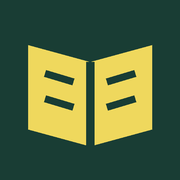
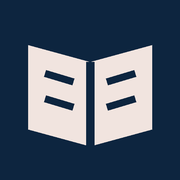
Update book club wording, church colours and regional links

diff --git a/index.html b/index.html
@@ -8,38 +8,40 @@
 <meta property="og:site_name" content="The Book Club London">
 <meta property="og:locale" content="en_GB">
 <meta property="og:url" content="https://thebookclub.london/">
-<meta property="og:title" content="The Book Club London — Bring your curiosity.">
+<meta property="og:title" content="The Book Club London — Make up your own mind.">
 <meta property="og:description" content="An old book. Big questions. Good company. Explore the Bible, life and meaning at a relaxed book club in Waterloo. Everyone welcome.">
-<meta property="og:image" content="https://thebookclub.london/assets/book-club-social.jpg">
-<meta property="og:image:secure_url" content="https://thebookclub.london/assets/book-club-social.jpg">
+<meta property="og:image" content="https://thebookclub.london/assets/book-club-social-v2.jpg">
+<meta property="og:image:secure_url" content="https://thebookclub.london/assets/book-club-social-v2.jpg">
 <meta property="og:image:type" content="image/jpeg">
 <meta property="og:image:width" content="1200">
 <meta property="og:image:height" content="630">
-<meta property="og:image:alt" content="The Book Club London: An old book. Big questions. Good company. Illustrated open book on a yellow circle.">
+<meta property="og:image:alt" content="The Book Club London: An old book. Big questions. Good company. Illustrated open book in navy and muted red.">
 <meta name="twitter:card" content="summary_large_image">
-<meta name="twitter:title" content="The Book Club London — Bring your curiosity.">
+<meta name="twitter:title" content="The Book Club London — Make up your own mind.">
 <meta name="twitter:description" content="Explore the Bible, life and meaning at a relaxed book club in Waterloo. Questions welcome.">
-<meta name="twitter:image" content="https://thebookclub.london/assets/book-club-social.jpg">
+<meta name="twitter:image" content="https://thebookclub.london/assets/book-club-social-v2.jpg">
 <meta name="twitter:image:alt" content="The Book Club London: An old book. Big questions. Good company.">
 <link rel="icon" href="/favicon.ico" sizes="any">
 <link rel="icon" href="/assets/favicon.svg" type="image/svg+xml">
 <link rel="apple-touch-icon" href="/assets/apple-touch-icon.png" sizes="180x180">
-<meta name="theme-color" content="#193d34">
+<meta name="theme-color" content="#0d253f">
 <link rel="canonical" href="https://thebookclub.london/">
-<title>The Book Club London — Bring your curiosity.</title>
+<title>The Book Club London — Make up your own mind.</title>
 <style>
-:root{--ink:#193d34;--paper:#f8f5ec;--yellow:#efd85d;--line:#ccd0c3;--muted:#53665d}*{box-sizing:border-box}html{scroll-behavior:smooth;scroll-padding-top:24px}body{margin:0;background:var(--paper);color:var(--ink);font-family:Arial,Helvetica,sans-serif;font-size:18px;line-height:1.6}a{color:inherit;text-underline-offset:5px}a:focus-visible,button:focus-visible,summary:focus-visible,video:focus-visible{outline:3px solid #b96337;outline-offset:6px}button{font:inherit}h1,h2,h3,p{margin-top:0}h1,h2{font-family:Georgia,'Times New Roman',serif;font-weight:400;letter-spacing:-.055em;line-height:1.02}h1{font-size:clamp(64px,7.6vw,108px);margin-bottom:30px}h2{font-size:clamp(42px,5vw,68px);margin-bottom:28px}h3{font-size:23px;line-height:1.25;letter-spacing:-.03em}.wrap{width:min(1180px,88%);margin:auto}.skip{position:absolute;top:-90px;left:20px;padding:10px;background:var(--yellow);z-index:5}.skip:focus{top:10px}.site-header{display:flex;align-items:center;justify-content:space-between;padding:28px 0;border-bottom:1px solid var(--line);gap:20px}.brand{font-size:23px;font-weight:800;letter-spacing:-.06em;text-decoration:none;line-height:1}.brand small{display:block;font-size:11px;letter-spacing:.25em;margin-top:8px}.nav{display:flex;gap:28px;align-items:center;font-size:15px}.nav a{text-decoration:none}.nav a:hover{text-decoration:underline}.nav .nav-cta{border:1px solid var(--ink);padding:9px 18px;border-radius:30px}.hero{display:grid;grid-template-columns:1.3fr 1fr;gap:70px;align-items:center;padding:78px 0 70px}.eyebrow{text-transform:uppercase;letter-spacing:.16em;font-size:12px;font-weight:700;margin-bottom:26px}.hero h1 em{color:#59745e}.intro{font-size:21px;max-width:540px;line-height:1.6}.actions{display:flex;gap:22px;align-items:center;flex-wrap:wrap;margin:30px 0 22px}.button{display:inline-flex;align-items:center;justify-content:center;gap:28px;background:var(--ink);color:white;border:1px solid var(--ink);padding:15px 25px;border-radius:40px;text-decoration:none;font-size:16px;font-weight:700;transition:background .2s}.button:hover{background:#2e5749}.button.light{background:var(--yellow);color:var(--ink);border-color:var(--yellow)}.quiet{font-size:14px;color:var(--muted)}.video-card{position:relative;max-width:355px;width:100%;justify-self:center}.video-shell{border:1px solid var(--ink);border-radius:180px 180px 20px 20px;background:#d7dfd3;padding:20px 20px 16px;box-shadow:14px 14px 0 #e7e3d5}.video-shell video{display:block;width:100%;aspect-ratio:9/16;background:#17382f;border-radius:160px 160px 8px 8px;object-fit:contain}.video-label{text-align:center;font-size:12px;font-weight:700;letter-spacing:.12em;margin:17px 0 0;text-transform:uppercase}.video-note{position:absolute;right:-26px;top:25px;width:110px;height:110px;border-radius:50%;background:var(--yellow);display:grid;place-content:center;text-align:center;font-size:14px;line-height:1.3;transform:rotate(9deg);pointer-events:none}.video-start{position:absolute;top:47%;left:50%;transform:translate(-50%,-50%);border:0;border-radius:40px;background:var(--yellow);color:var(--ink);padding:14px 21px;cursor:pointer;white-space:nowrap;font-size:15px;font-weight:bold}.video-card.playing .video-start{display:none}.principles{background:var(--yellow);border-top:1px solid var(--ink);border-bottom:1px solid var(--ink);padding:24px 0}.principles .wrap{display:flex;justify-content:space-between;gap:16px;font:26px Georgia,serif}.section{padding:90px 0}.two-col{display:grid;grid-template-columns:1fr 1fr;gap:80px}.section .eyebrow{color:var(--muted)}.reading{max-width:560px}.steps{border-top:1px solid var(--line);margin-top:25px}.step{display:grid;grid-template-columns:40px 1fr;gap:20px;border-bottom:1px solid var(--line);padding:22px 0}.step span{font-family:Georgia,serif;font-size:24px}.step h3{margin-bottom:6px}.step p{margin:0;font-size:16px;color:var(--muted)}.meet{background:var(--ink);color:var(--paper)}.meet .eyebrow{color:#d9dcca}.venue{border:1px solid #71897a;padding:34px;border-radius:4px}.venue h3{font:34px Georgia,serif}.venue p{font-size:17px}.venue .quiet{color:#d9dcca}.details{display:grid;grid-template-columns:.7fr 1.3fr;gap:80px}details{border-bottom:1px solid var(--line);padding:20px 0}details:first-child{border-top:1px solid var(--line)}summary{cursor:pointer;font-size:19px;font-weight:700;padding-right:15px}details p{margin:18px 0 0;font-size:17px;color:var(--muted)}.closing{text-align:center;padding:60px 0 80px}.closing h2{max-width:750px;margin:0 auto 30px}.site-footer{border-top:1px solid var(--line);padding:30px 0;display:flex;justify-content:space-between;align-items:center;gap:20px;font-size:14px}.site-footer p{margin:0}.footer-links{display:flex;gap:24px}.error{font-size:14px;text-align:center;margin:20px 0 0}.error[hidden]{display:none}@media(max-width:760px){.wrap{width:88%}.site-header{padding:23px 0}.brand{font-size:20px}.nav{gap:12px}.nav .optional{display:none}.nav .nav-cta{font-size:13px;padding:7px 12px}.hero{grid-template-columns:1fr;gap:40px;padding:48px 0 60px}h1{font-size:64px}.intro{font-size:19px}.video-card{max-width:300px}.video-note{right:-14px;width:92px;height:92px}.principles .wrap{flex-wrap:wrap;justify-content:center;gap:12px 30px;font-size:22px}.section{padding:60px 0}.two-col,.details{grid-template-columns:1fr;gap:30px}.venue{padding:25px}.site-footer{align-items:flex-start;flex-direction:column}.closing{padding:20px 0 60px}}@media(prefers-reduced-motion:reduce){html{scroll-behavior:auto}*{transition:none!important}}
+:root{--ink:#0d253f;--paper:#f8f5ec;--tint:#f1e4df;--line:#d8d4ce;--muted:#526071}*{box-sizing:border-box}html{scroll-behavior:smooth;scroll-padding-top:24px}body{margin:0;background:var(--paper);color:var(--ink);font-family:Arial,Helvetica,sans-serif;font-size:18px;line-height:1.6}a{color:inherit;text-underline-offset:5px}a:focus-visible,button:focus-visible,summary:focus-visible,video:focus-visible{outline:3px solid #ab4545;outline-offset:6px}button{font:inherit}h1,h2,h3,p{margin-top:0}h1,h2{font-family:Georgia,'Times New Roman',serif;font-weight:400;letter-spacing:-.055em;line-height:1.02}h1{font-size:clamp(64px,7.6vw,108px);margin-bottom:30px}h2{font-size:clamp(42px,5vw,68px);margin-bottom:28px}h3{font-size:23px;line-height:1.25;letter-spacing:-.03em}.wrap{width:min(1180px,88%);margin:auto}.skip{position:absolute;top:-90px;left:20px;padding:10px;background:var(--tint);z-index:5}.skip:focus{top:10px}.site-header{display:flex;align-items:center;justify-content:space-between;padding:28px 0;border-bottom:1px solid var(--line);gap:20px}.brand{font-size:23px;font-weight:800;letter-spacing:-.06em;text-decoration:none;line-height:1}.brand small{display:block;font-size:11px;letter-spacing:.25em;margin-top:8px}.nav{display:flex;gap:28px;align-items:center;font-size:15px}.nav a{text-decoration:none}.nav a:hover{text-decoration:underline}.nav .nav-cta{border:1px solid var(--ink);padding:9px 18px;border-radius:30px}.hero{display:grid;grid-template-columns:1.3fr 1fr;gap:70px;align-items:center;padding:78px 0 70px}.eyebrow{text-transform:uppercase;letter-spacing:.16em;font-size:12px;font-weight:700;margin-bottom:26px}.hero h1 em{color:#ab4545}.intro{font-size:21px;max-width:540px;line-height:1.6}.actions{display:flex;gap:22px;align-items:center;flex-wrap:wrap;margin:30px 0 22px}.button{display:inline-flex;align-items:center;justify-content:center;gap:28px;background:#ab4545;color:white;border:1px solid #ab4545;padding:15px 25px;border-radius:40px;text-decoration:none;font-size:16px;font-weight:700;transition:background .2s}.button:hover{background:#8c3636}.button.light:hover{background:#fff}.button.light{background:var(--tint);color:var(--ink);border-color:var(--tint)}.quiet{font-size:14px;color:var(--muted)}.video-card{position:relative;max-width:355px;width:100%;justify-self:center}.video-shell{border:1px solid var(--ink);border-radius:180px 180px 20px 20px;background:#eee5de;padding:20px 20px 16px;box-shadow:14px 14px 0 #e7e3d5}.video-shell video{display:block;width:100%;aspect-ratio:9/16;background:#0d253f;border-radius:160px 160px 8px 8px;object-fit:contain}.video-label{text-align:center;font-size:12px;font-weight:700;letter-spacing:.12em;margin:17px 0 0;text-transform:uppercase}.video-note{position:absolute;right:-26px;top:25px;width:110px;height:110px;border-radius:50%;background:var(--tint);display:grid;place-content:center;text-align:center;font-size:14px;line-height:1.3;transform:rotate(9deg);pointer-events:none}.video-start{position:absolute;top:47%;left:50%;transform:translate(-50%,-50%);border:0;border-radius:40px;background:var(--tint);color:var(--ink);padding:14px 21px;cursor:pointer;white-space:nowrap;font-size:15px;font-weight:bold}.video-card.playing .video-start{display:none}.principles{background:var(--tint);border-top:1px solid var(--ink);border-bottom:1px solid var(--ink);padding:24px 0}.principles .wrap{display:flex;justify-content:space-between;gap:16px;font:26px Georgia,serif}.section{padding:90px 0}.two-col{display:grid;grid-template-columns:1fr 1fr;gap:80px}.section .eyebrow{color:var(--muted)}.reading{max-width:560px}.steps{border-top:1px solid var(--line);margin-top:25px}.step{display:grid;grid-template-columns:40px 1fr;gap:20px;border-bottom:1px solid var(--line);padding:22px 0}.step span{font-family:Georgia,serif;font-size:24px}.step h3{margin-bottom:6px}.step p{margin:0;font-size:16px;color:var(--muted)}.meet{background:var(--ink);color:var(--paper)}.meet .eyebrow{color:#e5e6ea}.venue{border:1px solid #708096;padding:34px;border-radius:4px}.venue h3{font:34px Georgia,serif}.venue p{font-size:17px}.venue .quiet{color:#e5e6ea}.details{display:grid;grid-template-columns:.7fr 1.3fr;gap:80px}details{border-bottom:1px solid var(--line);padding:20px 0}details:first-child{border-top:1px solid var(--line)}summary{cursor:pointer;font-size:19px;font-weight:700;padding-right:15px}details p{margin:18px 0 0;font-size:17px;color:var(--muted)}.closing{text-align:center;padding:60px 0 80px}.closing h2{max-width:750px;margin:0 auto 30px}.site-footer{border-top:1px solid var(--line);padding:30px 0;display:flex;justify-content:space-between;align-items:center;gap:20px;font-size:14px}.site-footer p{margin:0}.footer-links{display:flex;gap:24px}.error{font-size:14px;text-align:center;margin:20px 0 0}.error[hidden]{display:none}@media(max-width:760px){.wrap{width:88%}.site-header{padding:23px 0}.brand{font-size:20px}.nav{gap:12px}.nav .optional{display:none}.nav .nav-cta{font-size:13px;padding:7px 12px}.hero{grid-template-columns:1fr;gap:40px;padding:48px 0 60px}h1{font-size:clamp(46px,12vw,64px)}.intro{font-size:19px}.video-card{max-width:300px}.video-note{right:-14px;width:92px;height:92px}.principles .wrap{flex-wrap:wrap;justify-content:center;gap:12px 30px;font-size:22px}.section{padding:60px 0}.two-col,.details{grid-template-columns:1fr;gap:30px}.venue{padding:25px}.site-footer{align-items:flex-start;flex-direction:column}.closing{padding:20px 0 60px}}@media(prefers-reduced-motion:reduce){html{scroll-behavior:auto}*{transition:none!important}}
+.tagline{font-size:22px;font-weight:700;color:#ab4545;margin-bottom:16px}.other-locations{border-top:1px solid var(--line);border-bottom:1px solid var(--line);padding:36px 0;margin-bottom:60px;display:grid;grid-template-columns:1.4fr 1fr;gap:40px;align-items:center}.other-locations .eyebrow{color:#ab4545;margin-bottom:14px}.other-locations h2{font-size:32px;letter-spacing:-.035em;margin-bottom:14px}.other-locations p:last-child{font-size:16px;color:var(--muted);margin:0}.other-locations nav{display:flex;gap:14px;flex-wrap:wrap}.other-locations nav a{display:flex;gap:25px;justify-content:space-between;padding:12px 18px;border:1px solid var(--line);border-radius:6px;text-decoration:none;font-size:16px}.other-locations nav a:hover{background:var(--tint)}@media(max-width:760px){.other-locations{grid-template-columns:1fr;gap:22px}.tagline{font-size:20px}}
 </style>
 </head>
 <body>
 <a class="skip" href="#main">Skip to content</a>
 <div class="wrap"><header class="site-header"><a class="brand" href="#" aria-label="The Book Club London home">the book club.<small>LONDON</small></a><nav class="nav" aria-label="Main navigation"><a class="optional" href="#about">The idea</a><a class="optional" href="#questions">Questions</a><a class="nav-cta" href="https://www.meetup.com/the-book-club-in-london/">Come along ↗</a></nav></header></div>
 <main id="main">
-<section class="hero wrap" aria-labelledby="welcome"><div><p class="eyebrow">An open conversation · Waterloo, London</p><h1 id="welcome">An old book.<br>Big questions.<br><em>Good company.</em></h1><p class="intro">A book club for exploring the Bible, life and meaning. Pull up a chair, share a thought, and hear a different point of view.</p><div class="actions"><a class="button" href="https://www.meetup.com/the-book-club-in-london/">Find our next evening <span aria-hidden="true">↗</span></a><a href="#about">What’s it like?</a></div><p class="quiet">Curious? Sceptical? Still figuring it out? You’re welcome.</p></div><div class="video-card" id="video-card"><div class="video-shell"><video id="club-video" controls playsinline preload="none" poster="assets/book-club-poster.jpg" aria-label="A short introduction to The Book Club London"><source src="assets/book-club-introduction.mp4" type="video/mp4">Your browser cannot play this video. <a href="assets/book-club-introduction.mp4">Download the introduction</a>.</video><p class="video-label">Meet the book club · 48 seconds</p></div><div class="video-note" aria-hidden="true">A little hello<br>before you<br>come along.</div><button class="video-start" id="video-start" type="button" aria-controls="club-video">▶ Watch our introduction</button><p class="error" id="video-error" hidden>Having trouble playing? <a href="assets/book-club-introduction.mp4">Open the video directly</a>.</p></div></section>
+<section class="hero wrap" aria-labelledby="welcome"><div><p class="eyebrow">An open conversation · Waterloo, London</p><h1 id="welcome">An old book.<br>Big questions.<br><em>Good company.</em></h1><p class="tagline">Make up your own mind.</p><p class="intro">A book club for exploring the Bible, life and meaning. Come along, say what you think, and hear a different point of view.</p><div class="actions"><a class="button" href="https://www.meetup.com/the-book-club-in-london/">Find our next evening <span aria-hidden="true">↗</span></a><a href="#about">What’s it like?</a></div><p class="quiet">Curious? Sceptical? Still figuring it out? You’re welcome.</p></div><div class="video-card" id="video-card"><div class="video-shell"><video id="club-video" controls playsinline preload="none" poster="assets/book-club-poster.jpg" aria-label="A short introduction to The Book Club London"><source src="assets/book-club-introduction.mp4" type="video/mp4">Your browser cannot play this video. <a href="assets/book-club-introduction.mp4">Download the introduction</a>.</video><p class="video-label">Meet the book club · 48 seconds</p></div><div class="video-note" aria-hidden="true">A little hello<br>before you<br>come along.</div><button class="video-start" id="video-start" type="button" aria-controls="club-video">▶ Watch our introduction</button><p class="error" id="video-error" hidden>Having trouble playing? <a href="assets/book-club-introduction.mp4">Open the video directly</a>.</p></div></section>
 <div class="principles"><div class="wrap"><span>Be curious.</span><span>Be honest.</span><span>Be kind.</span></div></div>
-<section class="section wrap two-col" id="about"><div><p class="eyebrow">The idea</p><h2>Room for a<br>different reading.</h2><p class="reading">The Bible has left its mark on art, culture and the way people think. But what do you make of it?</p><p class="reading">We explore its books together, including some that aren’t in most editions of the Bible. You can question what you read, disagree, or simply listen. Your conclusions are your own.</p></div><div><p class="eyebrow">An evening with us</p><div class="steps"><div class="step"><span>01</span><div><h3>Settle in.</h3><p>We meet in a pub. Get yourself a drink and find the group upstairs.</p></div></div><div class="step"><span>02</span><div><h3>Open a book.</h3><p>The group helps choose what we read. There’s no homework or prior knowledge needed.</p></div></div><div class="step"><span>03</span><div><h3>See where it takes us.</h3><p>Small-group discussion, different perspectives and space for questions. No lectures or pressure to agree.</p></div></div></div></div></section>
-<section class="meet section" id="meet"><div class="wrap two-col"><div><p class="eyebrow">Join the conversation</p><h2>Your next chapter<br>starts upstairs.</h2><p>Come on your own or bring a friend. Check our Meetup group for the next date, time and attendance details.</p><a class="button light" href="https://www.meetup.com/the-book-club-in-london/">See dates & join us <span aria-hidden="true">↗</span></a></div><div class="venue"><p class="eyebrow">Where we meet</p><h3>The Duke of Sussex</h3><p>Baylis Road, London SE1 7AY<br>Private room · second floor</p><p>Ask for “The Book Club” when you arrive.</p><p><a href="https://www.google.com/maps/search/?api=1&query=The+Duke+of+Sussex+Baylis+Road+London+SE1+7AY">Get directions ↗</a></p><p class="quiet">Questions about access or coming for the first time? Contact the organisers through Meetup before your visit.</p></div></div></section>
-<section class="section wrap details" id="questions"><div><p class="eyebrow">Before you come</p><h2>Good questions<br>start here.</h2></div><div><details><summary>Do I need to be a Christian?</summary><p>No. The group welcomes people with different beliefs, including people who don’t have a faith. Interest in the conversation is enough.</p></details><details><summary>Should I read anything beforehand?</summary><p>No preparation is expected. We explore the reading together, and the group helps decide which books to discuss.</p></details><details><summary>Is this connected to a church?</summary><p>The Book Club has a connection with <a href="https://holyword.co.uk/">Holy Word Lutheran Church</a>. The evenings are informal book discussions in a pub, with room for questions and disagreement. You don’t need to share a faith or attend church to take part.</p></details><details><summary>How do I book, and is there a cost?</summary><p>Use our <a href="https://www.meetup.com/the-book-club-in-london/">Meetup group</a> to check the next event’s attendance details and any charge before you come.</p></details><details><summary>Can I come on my own?</summary><p>Yes. You’re welcome to join by yourself. Ask for The Book Club when you arrive, and feel free to message the organisers on Meetup beforehand.</p></details><details><summary>Will photos be taken?</summary><p>The organisers may take photos to share on Meetup or social media. If you’d rather not be photographed, let them know when you arrive.</p></details></div></section>
+<section class="section wrap two-col" id="about"><div><p class="eyebrow">The idea</p><h2>Room for a<br>different reading.</h2><p class="reading">The Bible has left its mark on art, culture and the way people think. But what do you make of it?</p><p class="reading">We explore its books together, including some that aren’t in most editions of the Bible. Question what you read, disagree, or simply listen. There’s no pressure to reach a particular conclusion. <strong>Make up your own mind.</strong></p></div><div><p class="eyebrow">An evening with us</p><div class="steps"><div class="step"><span>01</span><div><h3>Settle in.</h3><p>We meet in a pub. Get a drink and find us upstairs.</p></div></div><div class="step"><span>02</span><div><h3>Open a book.</h3><p>The group helps choose what we read. There’s no homework or prior knowledge needed.</p></div></div><div class="step"><span>03</span><div><h3>See where it takes us.</h3><p>We talk in small groups, hear different points of view and ask questions. No lectures or pressure to agree.</p></div></div></div></div></section>
+<section class="meet section" id="meet"><div class="wrap two-col"><div><p class="eyebrow">Join the conversation</p><h2>Your next chapter<br>starts upstairs.</h2><p>Come on your own or bring a friend. Check our Meetup group for the next date, time and details.</p><a class="button light" href="https://www.meetup.com/the-book-club-in-london/">See dates & join us <span aria-hidden="true">↗</span></a></div><div class="venue"><p class="eyebrow">Where we meet</p><h3>The Duke of Sussex</h3><p>Baylis Road, London SE1 7AY<br>Private room · second floor</p><p>Ask for “The Book Club” when you arrive.</p><p><a href="https://www.google.com/maps/search/?api=1&query=The+Duke+of+Sussex+Baylis+Road+London+SE1+7AY">Get directions ↗</a></p><p class="quiet">Coming for the first time or have a question? We’d love to chat. Send us a message through <a href="https://www.meetup.com/the-book-club-in-london/">Meetup</a> and one of us will get back to you.</p></div></div></section>
+<section class="section wrap details" id="questions"><div><p class="eyebrow">Before you come</p><h2>Good questions<br>start here.</h2></div><div><details><summary>Do I need to be a Christian?</summary><p>No. The group welcomes people with different beliefs, including people who don’t have a faith. Interest in the conversation is enough.</p></details><details><summary>Should I read anything beforehand?</summary><p>No preparation is expected. We explore the reading together, and the group helps decide which books to discuss.</p></details><details><summary>Is this connected to a church?</summary><p>The Book Club has a connection with <a href="https://holyword.co.uk/">Holy Word Lutheran Church</a>. The evenings are informal book discussions in a pub, with room for questions and disagreement. You don’t need to share a faith or attend church to take part.</p></details><details><summary>How do I book, and is there a cost?</summary><p>Use our <a href="https://www.meetup.com/the-book-club-in-london/">Meetup group</a> to check the next event’s attendance details and any charge before you come.</p></details><details><summary>Can I come on my own?</summary><p>Yes. You’re welcome to join by yourself. Ask for The Book Club when you arrive, and feel free to message the organisers on Meetup beforehand.</p></details><details><summary>Will photos be taken?</summary><p>Sometimes. We occasionally take photos to share on Meetup or social media, but we’ll always ask before taking or sharing a photo you’re in. You’re absolutely welcome to come without being photographed.</p></details></div></section>
+<section class="other-locations wrap" aria-labelledby="other-locations-title"><div><p class="eyebrow">Beyond London</p><h2 id="other-locations-title">Find a book club nearer you.</h2><p>The Book Club also meets in Gloucester and Essington. Visit their pages for local details.</p></div><nav aria-label="Book clubs outside London"><a href="https://hwlcw.co.uk/gloucester-book-club/">Gloucester <span aria-hidden="true">↗</span></a><a href="https://hwlcw.co.uk/essington-book-club/">Essington <span aria-hidden="true">↗</span></a></nav></section>
 <section class="closing wrap"><h2>Bring your curiosity.<br>There’s a chair for you.</h2><a class="button" href="https://www.meetup.com/the-book-club-in-london/">Meet us on Meetup <span aria-hidden="true">↗</span></a></section>
 </main>
 <footer class="site-footer wrap"><p><strong>the book club.</strong> London</p><div class="footer-links"><a href="https://www.meetup.com/the-book-club-in-london/">Meetup & contact</a><a href="#questions">FAQs</a></div><p>A good place for a question.</p></footer>

diff --git a/scripts/generate-brand-assets.py b/scripts/generate-brand-assets.py
@@ -1,0 +1,31 @@
+"""Generate the site's icon and social card. Requires Pillow."""
+from pathlib import Path
+from PIL import Image, ImageDraw, ImageFont
+ROOT = Path(__file__).resolve().parents[1]
+INK, RED, PAPER, TINT = '#0d253f', '#ab4545', '#f8f5ec', '#f1e4df'
+def book(d, scale, offset=(0,0), fill=PAPER):
+    def pt(x,y):return (offset[0]+x*scale,offset[1]+y*scale)
+    d.polygon([pt(x,y) for x,y in [(10,16),(32,22),(54,16),(54,46),(32,52),(10,46)]],fill=fill)
+    d.line([pt(32,22),pt(32,52)],fill=INK,width=max(1,round(3*scale)))
+    for a,b in [((16,26),(26,29)),((16,35),(26,38)),((38,29),(48,26)),((38,38),(48,35))]:
+        d.line([pt(*a),pt(*b)],fill=INK,width=max(1,round(2.5*scale)))
+svg=f'<svg xmlns="http://www.w3.org/2000/svg" viewBox="0 0 64 64"><rect width="64" height="64" rx="14" fill="{INK}"/><path d="M10 16 32 22 54 16V46L32 52 10 46Z" fill="{TINT}"/><path d="M32 22V52" stroke="{INK}" stroke-width="3"/><path d="m16 26 10 3m-10 6 10 3m12-9 10-3m-10 12 10-3" fill="none" stroke="{INK}" stroke-width="2.5" stroke-linecap="round"/></svg>'
+(ROOT/'assets/favicon.svg').write_text(svg+'\n')
+ic=Image.new('RGB',(512,512),INK);book(ImageDraw.Draw(ic),8,fill=TINT)
+ic.save(ROOT/'favicon.ico',sizes=[(16,16),(32,32),(48,48)])
+ic.resize((180,180),Image.Resampling.LANCZOS).save(ROOT/'assets/apple-touch-icon.png')
+def font(name,size):return ImageFont.truetype('/usr/share/fonts/truetype/dejavu/'+name+'.ttf',size)
+im=Image.new('RGB',(1200,630),PAPER);d=ImageDraw.Draw(im)
+d.rectangle((0,0,1200,15),fill=INK)
+d.text((64,49),'the book club.',font=font('DejaVuSans-Bold',29),fill=INK)
+d.text((64,95),'L O N D O N',font=font('DejaVuSans',15),fill=INK)
+d.line((64,140,1136,140),fill='#d8d4ce',width=2)
+for y,t in [(178,'An old book.'),(260,'Big questions.'),(342,'Good company.')]:
+    d.text((60,y),t,font=font('DejaVuSerif',67),fill=RED if y==342 else INK)
+d.ellipse((855,198,1105,448),fill=RED)
+book(d,3,(884,225))
+d.text((64,463),'Make up your own mind.',font=font('DejaVuSans-Bold',27),fill=RED)
+d.rectangle((0,544,1200,630),fill=INK)
+d.text((64,572),'Waterloo, London · Questions welcome.',font=font('DejaVuSans',21),fill=PAPER)
+d.text((868,575),'thebookclub.london',font=font('DejaVuSans',20),fill=TINT)
+im.save(ROOT/'assets/book-club-social-v2.jpg',quality=90,optimize=True)
